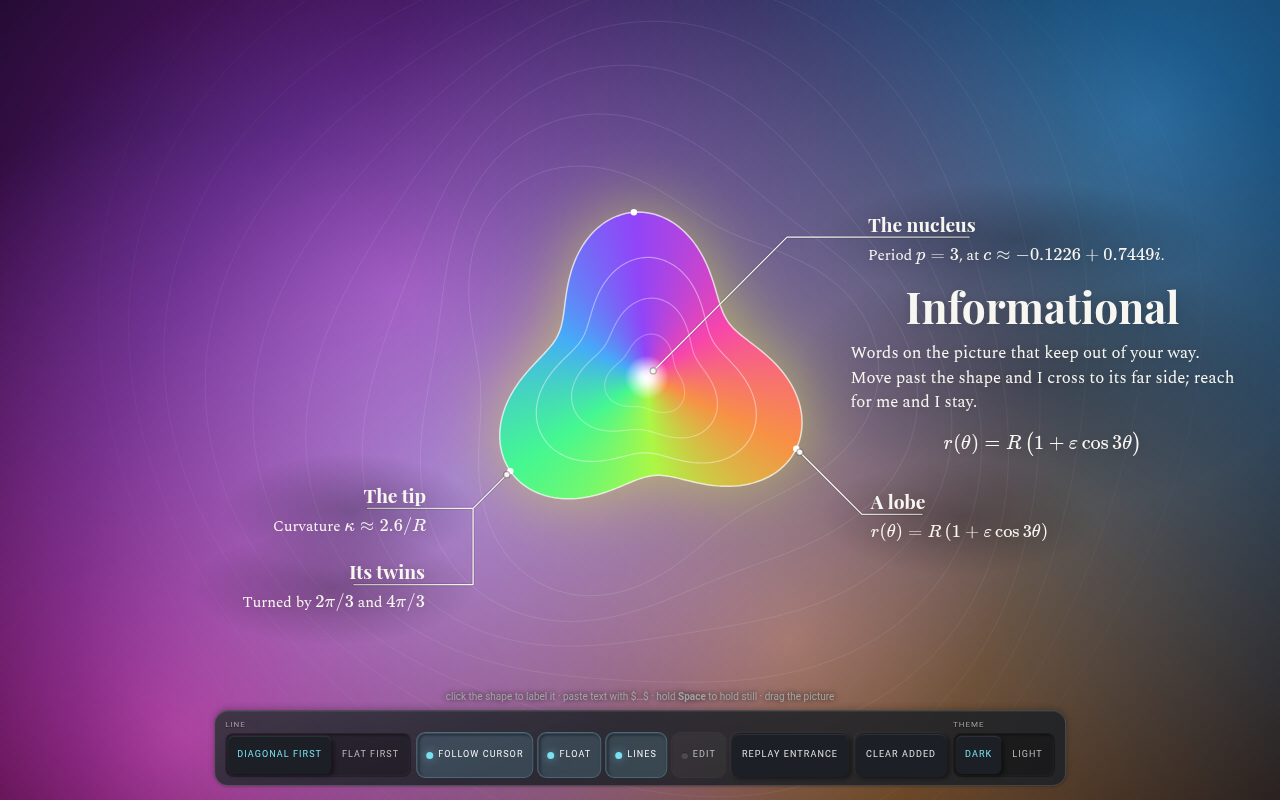
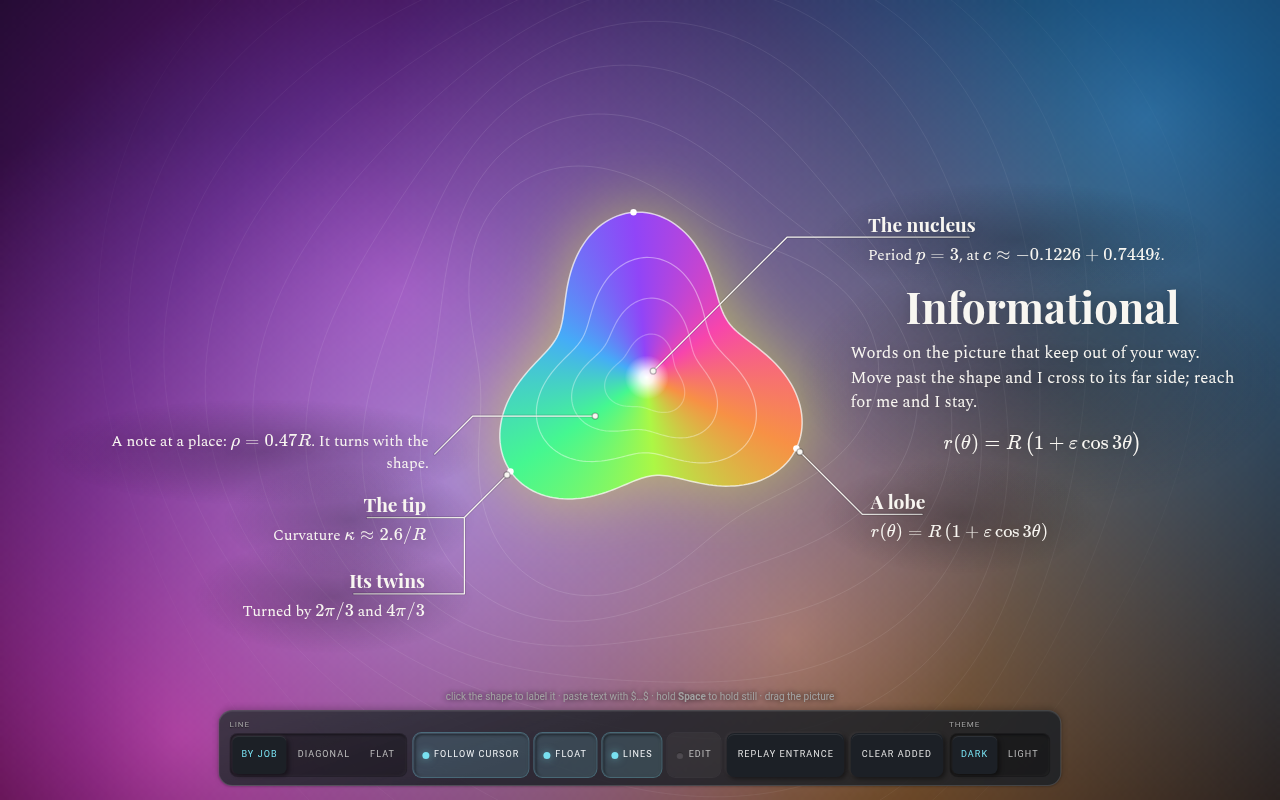
MIR 1.5.0-alpha.2: INFORMATIONAL — the two lines are for two jobs
Josh: "The diagonal/flat first could be for different purposes, be sure to
use them both." So the line style is per label, not one switch:

- diagonal-first names a feature the app knows: thing -> 45° -> a flat shelf
  that underlines the name. The default for a titled label on a feature id.
- flat-first is a note: thing -> flat -> 45° -> the text. The default for a
  label at a place, on a control (ui:), or with no title.
- addLabel({ line }) lets a label choose; setStyle('auto' | 'diagonal-first'
  | 'flat-first') may force one for all; 'auto' is now the default. Each
  label carries data-line.

gallery/info.html shows both at once (four named features and a note at a
place); the LINE switch is BY JOB / DIAGONAL / FLAT.
tests/info.browser.mjs: 21 checks, with the rule as its own check.

Claude-Session: https://claude.ai/code/session_01216PZJdRDXuZKuuo4X6KUw

diff --git a/mir/info/layer.js b/mir/info/layer.js
@@ -74,7 +74,7 @@ const spring = () => {
   return (SPRING = ok ? s : { easing: motionToken('out'), ms: 300 });
 };
 
-export function createInfoLayer({ stage, host = stage.parentElement, subject = null, features = null, style = 'diagonal-first', follow = true, lines = true, parallax = true, drift = false } = {}) {
+export function createInfoLayer({ stage, host = stage.parentElement, subject = null, features = null, style = 'auto', follow = true, lines = true, parallax = true, drift = false } = {}) {
   const doc = stage.ownerDocument, win = doc.defaultView;
   const root = doc.createElement('div'); root.className = 'mir-info';
   root.dataset.style = style; root.dataset.lines = lines ? 'on' : 'off';
@@ -218,21 +218,34 @@ export function createInfoLayer({ stage, host = stage.parentElement, subject = n
       setVar(it.el, 'translate', `${px(b.x)}px ${px(b.y)}px`);
       if (it.kind === 'block') setAttr(it.el, 'data-travel', Math.hypot(b.x - b.rx - b.ox, b.y - b.ry - b.oy) > INFO.travel ? '' : null);
     }
-    const flat = root.dataset.style === 'flat-first', show = root.dataset.lines === 'on';
+    const show = root.dataset.lines === 'on';
     for (const g of groups.values()) {
       const ls = g.labels.filter((l) => l.measured);
       if (!g.A || !ls.length) continue;
       const pts = ls.map((l) => attach(l, g.A));
       for (const [i, l] of ls.entries()) setAttr(l.el, 'data-side', pts[i].side > 0 ? 'right' : 'left');
       if (!show) continue;
-      const under = ls.map((l) => (flat ? 0 : INFO.pad + l.titleW));
+      const styles = ls.map((l) => lineOf(l, g));
+      for (const [i, l] of ls.entries()) setAttr(l.el, 'data-line', styles[i]);
+      const under = ls.map((l, i) => (styles[i] === 'flat-first' ? 0 : INFO.pad + l.titleW));
       let segs, start;
-      if (ls.length === 1) ({ segs, start } = leader(g.A, pts[0], { style: root.dataset.style, under: under[0], side: pts[0].side }));
+      if (ls.length === 1) ({ segs, start } = leader(g.A, pts[0], { style: styles[0], under: under[0], side: pts[0].side }));
       else ({ segs, start } = comb(g.A, pts, { under }));
       const d = toPath(segs);
       setAttr(g.halo, 'd', d); setAttr(g.ink, 'd', d);
       setAttr(g.dot, 'cx', px(start.x)); setAttr(g.dot, 'cy', px(start.y));
     }
+  }
+  /* THE TWO LINES ARE FOR TWO JOBS (Josh, 10-01: "could be for different purposes, be sure to use them both"):
+       diagonal-first  NAMING a feature the app knows: thing → 45° → a flat shelf that underlines the name
+       flat-first      a NOTE: at a place, on a control, or with no title: thing → flat → 45° → the text
+     A label may say which it wants (`line`); the layer's style may force one for all; otherwise the job decides. */
+  function lineOf(l, g) {
+    if (l.line === 'diagonal-first' || l.line === 'flat-first') return l.line;
+    const all = root.dataset.style;
+    if (all === 'diagonal-first' || all === 'flat-first') return all;
+    const named = typeof g.spec === 'string' && !g.spec.startsWith('ui:');
+    return l.title && named ? 'diagonal-first' : 'flat-first';
   }
   const schedule = () => frame.write(() => { if (!destroyed) paint(); });
 
@@ -509,13 +522,15 @@ export function createInfoLayer({ stage, host = stage.parentElement, subject = n
   }
   const api = {
     root,
-    addLabel({ anchor, title = '', md = '', id } = {}) {
+    addLabel({ anchor, title = '', md = '', id, line = 'auto' } = {}) {
       const it = make('label', { title, md, id }), g = groupFor(anchor);
+      it.line = line;
       it.group = g; g.labels.push(it); draggable(it);
       return handle(it);
     },
     addBlock({ md = '', hold = 0, id } = {}) { return handle(make('block', { md, hold, id })); },
-    setStyle(s) { root.dataset.style = s === 'flat-first' ? 'flat-first' : 'diagonal-first'; schedule(); },
+    /** setStyle('auto' | 'diagonal-first' | 'flat-first') — 'auto' lets each label's job choose its line */
+    setStyle(s) { root.dataset.style = s === 'flat-first' || s === 'diagonal-first' ? s : 'auto'; schedule(); },
     setFollow(v) { follow = !!v; if (!follow) { win.clearTimeout(dwellTimer); dwellTimer = 0; } kick(); },
     /** setParallax(on) — everything leans away from the cursor; setDrift(on) — a slow bob that keeps the frame on */
     setParallax(v) { parallax = !!v; kick(); },

diff --git a/gallery/info.html b/gallery/info.html
@@ -148,6 +148,9 @@ function place(x, y) {
   const rho = Math.hypot(x - P.cx, y - P.cy) / P.R, alpha = Math.atan2(y - P.cy, x - P.cx) - P.phi;
   return { rho, alpha, at: () => ({ x: P.cx + rho * P.R * Math.cos(alpha + P.phi), y: P.cy + rho * P.R * Math.sin(alpha + P.phi), r: 4 }) };
 }
+/* the two lines are for two jobs: a NAMED feature gets diagonal-first (the shelf underlines its name), a NOTE at a
+   place gets flat-first.  The four labels above are named features; this one is a note at a place. */
+{ const p = place(P.cx - 0.2 * P.R, P.cy + 0.42 * P.R); layer.addLabel({ anchor: p.at, md: String.raw`A note at a place: $\rho = ${p.rho.toFixed(2)}R$. It turns with the shape.` }); }
 const added = [];
 const keep = (h) => { added.push(h); if (added.length > 8) added.shift().remove(); };
 const deg = (a) => Math.round(((a * 180) / Math.PI % 360 + 360) % 360);
@@ -191,7 +194,7 @@ canvas.addEventListener('dblclick', () => { view.tx = 0; view.ty = 0; });
 /* ── THE STRIP ─────────────────────────────────────────────────────────────────────────────────────────────── */
 const strip = document.getElementById('strip');
 strip.append(
-  seg({ label: 'LINE', value: 'diagonal-first', options: [{ id: 'diagonal-first', label: 'DIAGONAL FIRST', title: 'thing → 45° → flat, the flat part underlining the title' }, { id: 'flat-first', label: 'FLAT FIRST', title: 'thing → flat → 45° → text' }], onChange: (v) => layer.setStyle(v) }).root,
+  seg({ label: 'LINE', value: 'auto', options: [{ id: 'auto', label: 'BY JOB', title: 'a named feature gets diagonal-first, a note at a place gets flat-first' }, { id: 'diagonal-first', label: 'DIAGONAL', title: 'all: thing → 45° → flat, the flat part underlining the title' }, { id: 'flat-first', label: 'FLAT', title: 'all: thing → flat → 45° → text' }], onChange: (v) => layer.setStyle(v) }).root,
   sw({ label: 'FOLLOW CURSOR', value: true, title: 'everything leans away from your pointer, and the greeting keeps to the far side of the shape', onChange: (v) => layer.setFollow(v) }).root,
   sw({ label: 'FLOAT', value: true, title: 'a slow drift, so nothing ever sits quite still', onChange: (v) => layer.setDrift(v) }).root,
   sw({ label: 'LINES', value: true, onChange: (v) => layer.setLines(v) }).root,

diff --git a/docs/INFORMATIONAL.md b/docs/INFORMATIONAL.md
@@ -8,14 +8,19 @@ Plates: `docs/plates/informational/dark.png`, `light.png` (1280 × 800; real fac
 
 ```js
 import { createInfoLayer } from './mir/info/layer.js';      // + link mir/info/faces.css, then mir/info/info.css
-const layer = createInfoLayer({ stage, host?, subject?: () => rect, features?: () => [{ id, x, y, r }], style?, follow?, lines? });
-layer.addLabel({ anchor, title, md })   // anchor: a feature id, { x, y, r }, or () => { x, y, r }  → { el, id, remove() }
+const layer = createInfoLayer({ stage, host?, subject?: () => rect, features?: () => [{ id, x, y, r }], style?, follow?, lines?, parallax?, drift? });
+layer.addLabel({ anchor, title, md, line? })   // anchor: a feature id, { x, y, r }, or () => { x, y, r }  → { el, id, remove() }
 layer.addBlock({ md, hold })            // hold: ms before it may move (the greeting uses 2500)    → { el, id, remove() }
-layer.setStyle('diagonal-first' | 'flat-first'); layer.setFollow(on); layer.setLines(on); layer.setEdit(on); layer.freeze(on);
+layer.setStyle('auto' | 'diagonal-first' | 'flat-first'); layer.setFollow(on); layer.setLines(on); layer.setEdit(on); layer.freeze(on);
+layer.setParallax(on); layer.setDrift(on);
 layer.viewChanged();                    // the picture moved: anchors and subject are read again, labels follow on the spring
 layer.replay(); layer.clear(kind?); layer.debug(); layer.destroy();
 ```
 
+- **The two lines are for two jobs** (Josh, 10-01: "could be for different purposes, be sure to use them both").
+  - **diagonal-first** names a feature the app knows: thing → 45° → a flat shelf that underlines the name. The default for a titled label on a feature id.
+  - **flat-first** is a note: thing → flat → 45° → the text. The default for a label at a place (`{x,y}` or a function), on a control (`ui:`), or with no title.
+  - A label may choose with `line`; `setStyle` may force one for all; `'auto'` (the default) lets the job decide. Each label carries `data-line`.
 - **Coordinates:** `subject()` and `features()` answer in the stage's own CSS pixels. The layer sits over the stage inside `host` (default: the stage's parent, which must be positioned).
 - **Markdown and maths:** `shell/notebook-render.js` (sanitised marked + KaTeX), loaded on first use by `shell/notebook.js` `loadRenderer()`.
 - **Pure parts:** `info/leader.js` (`leader`, `comb`, `route`, `toPath`) and `info/bodies.js` (`step`, `resolveRests`, `createRunner`).
